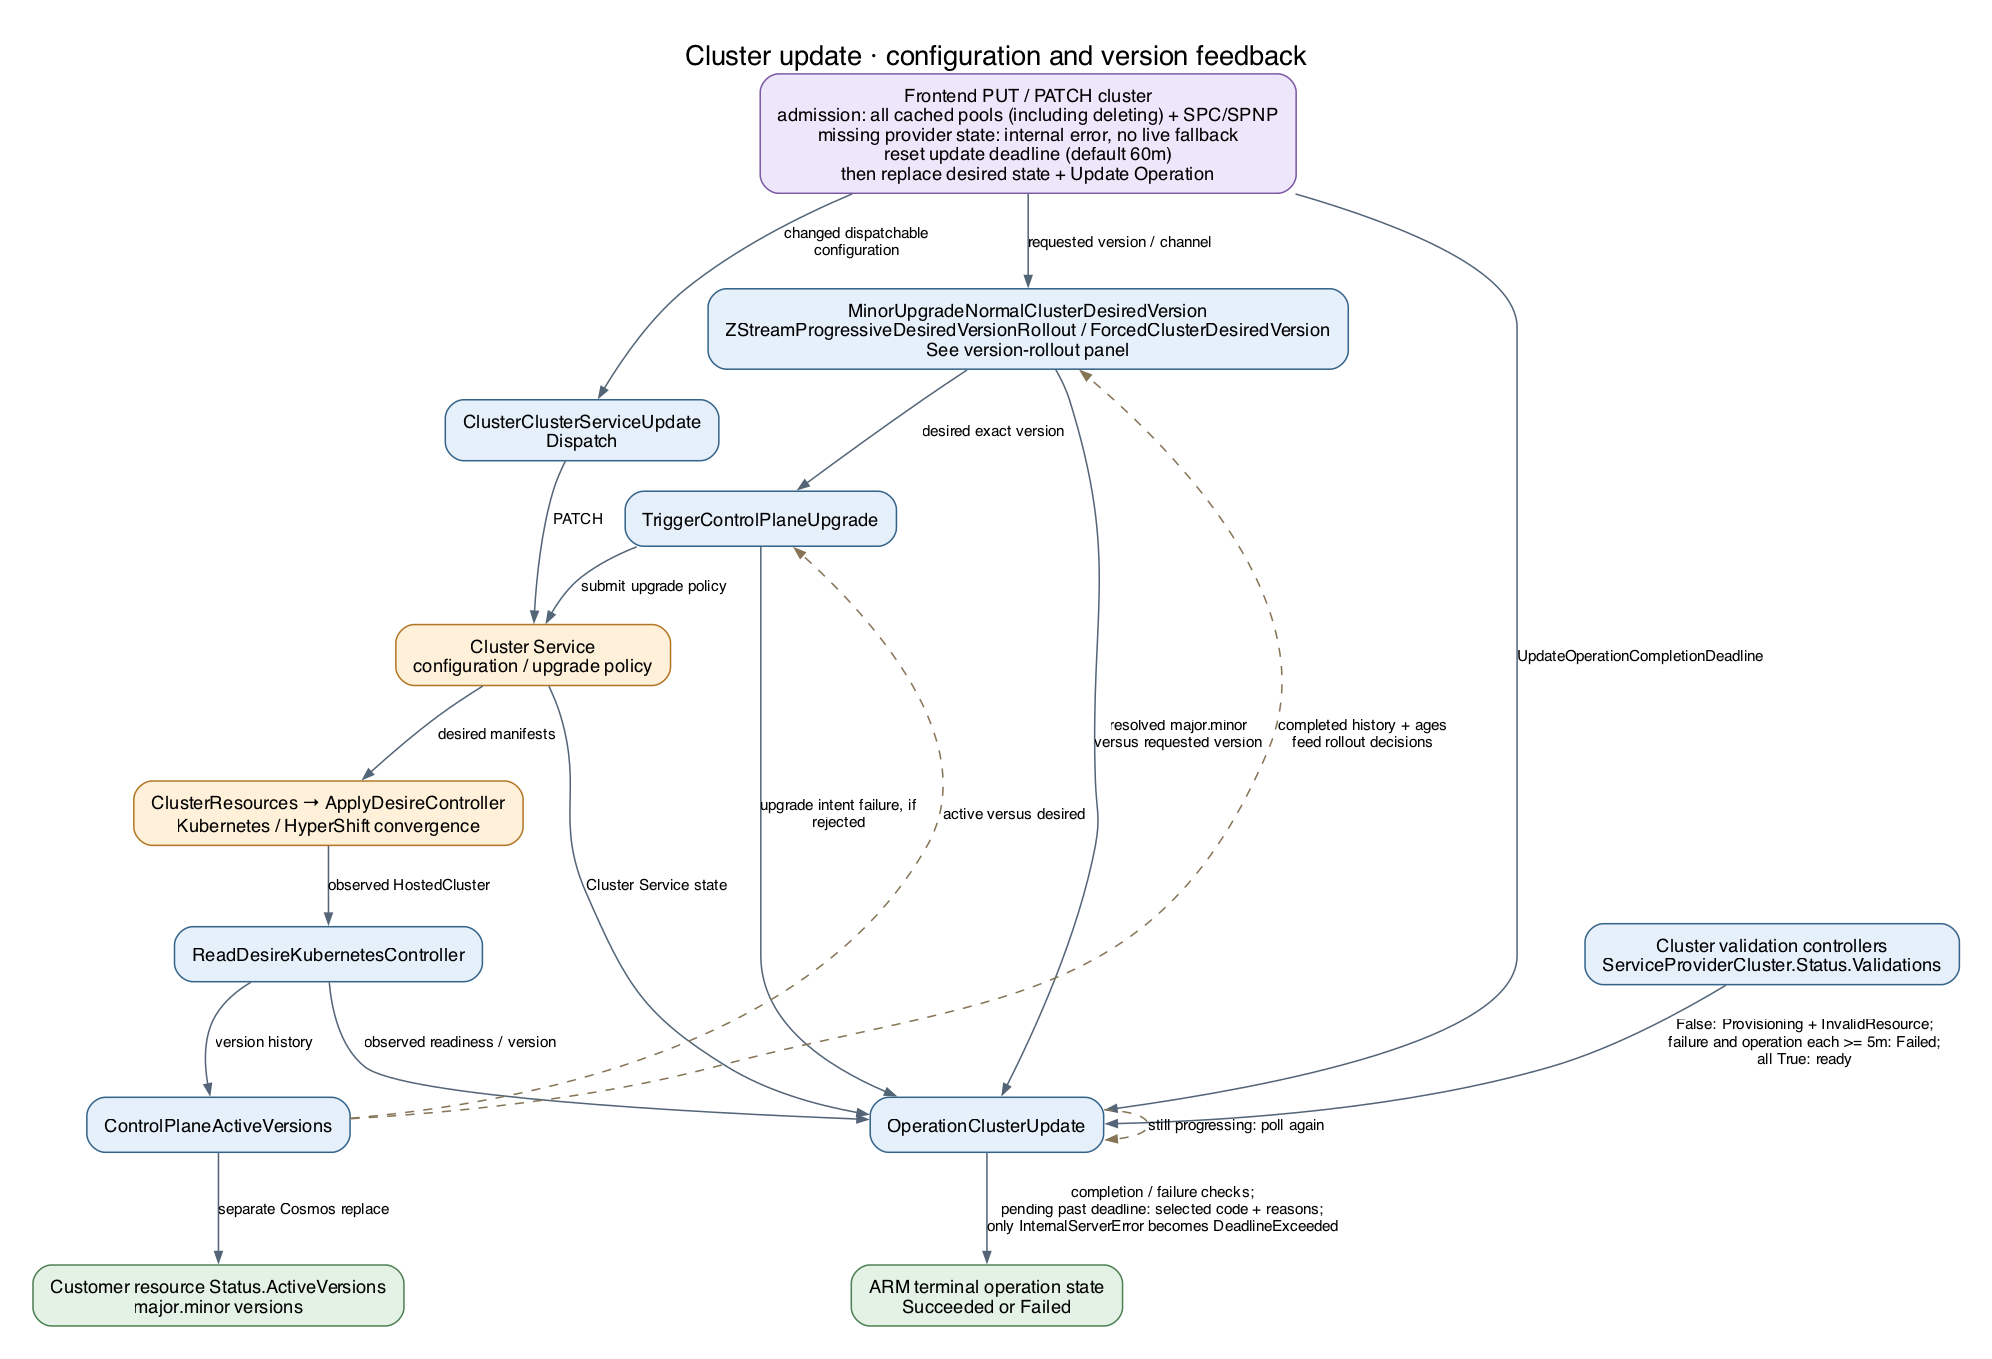
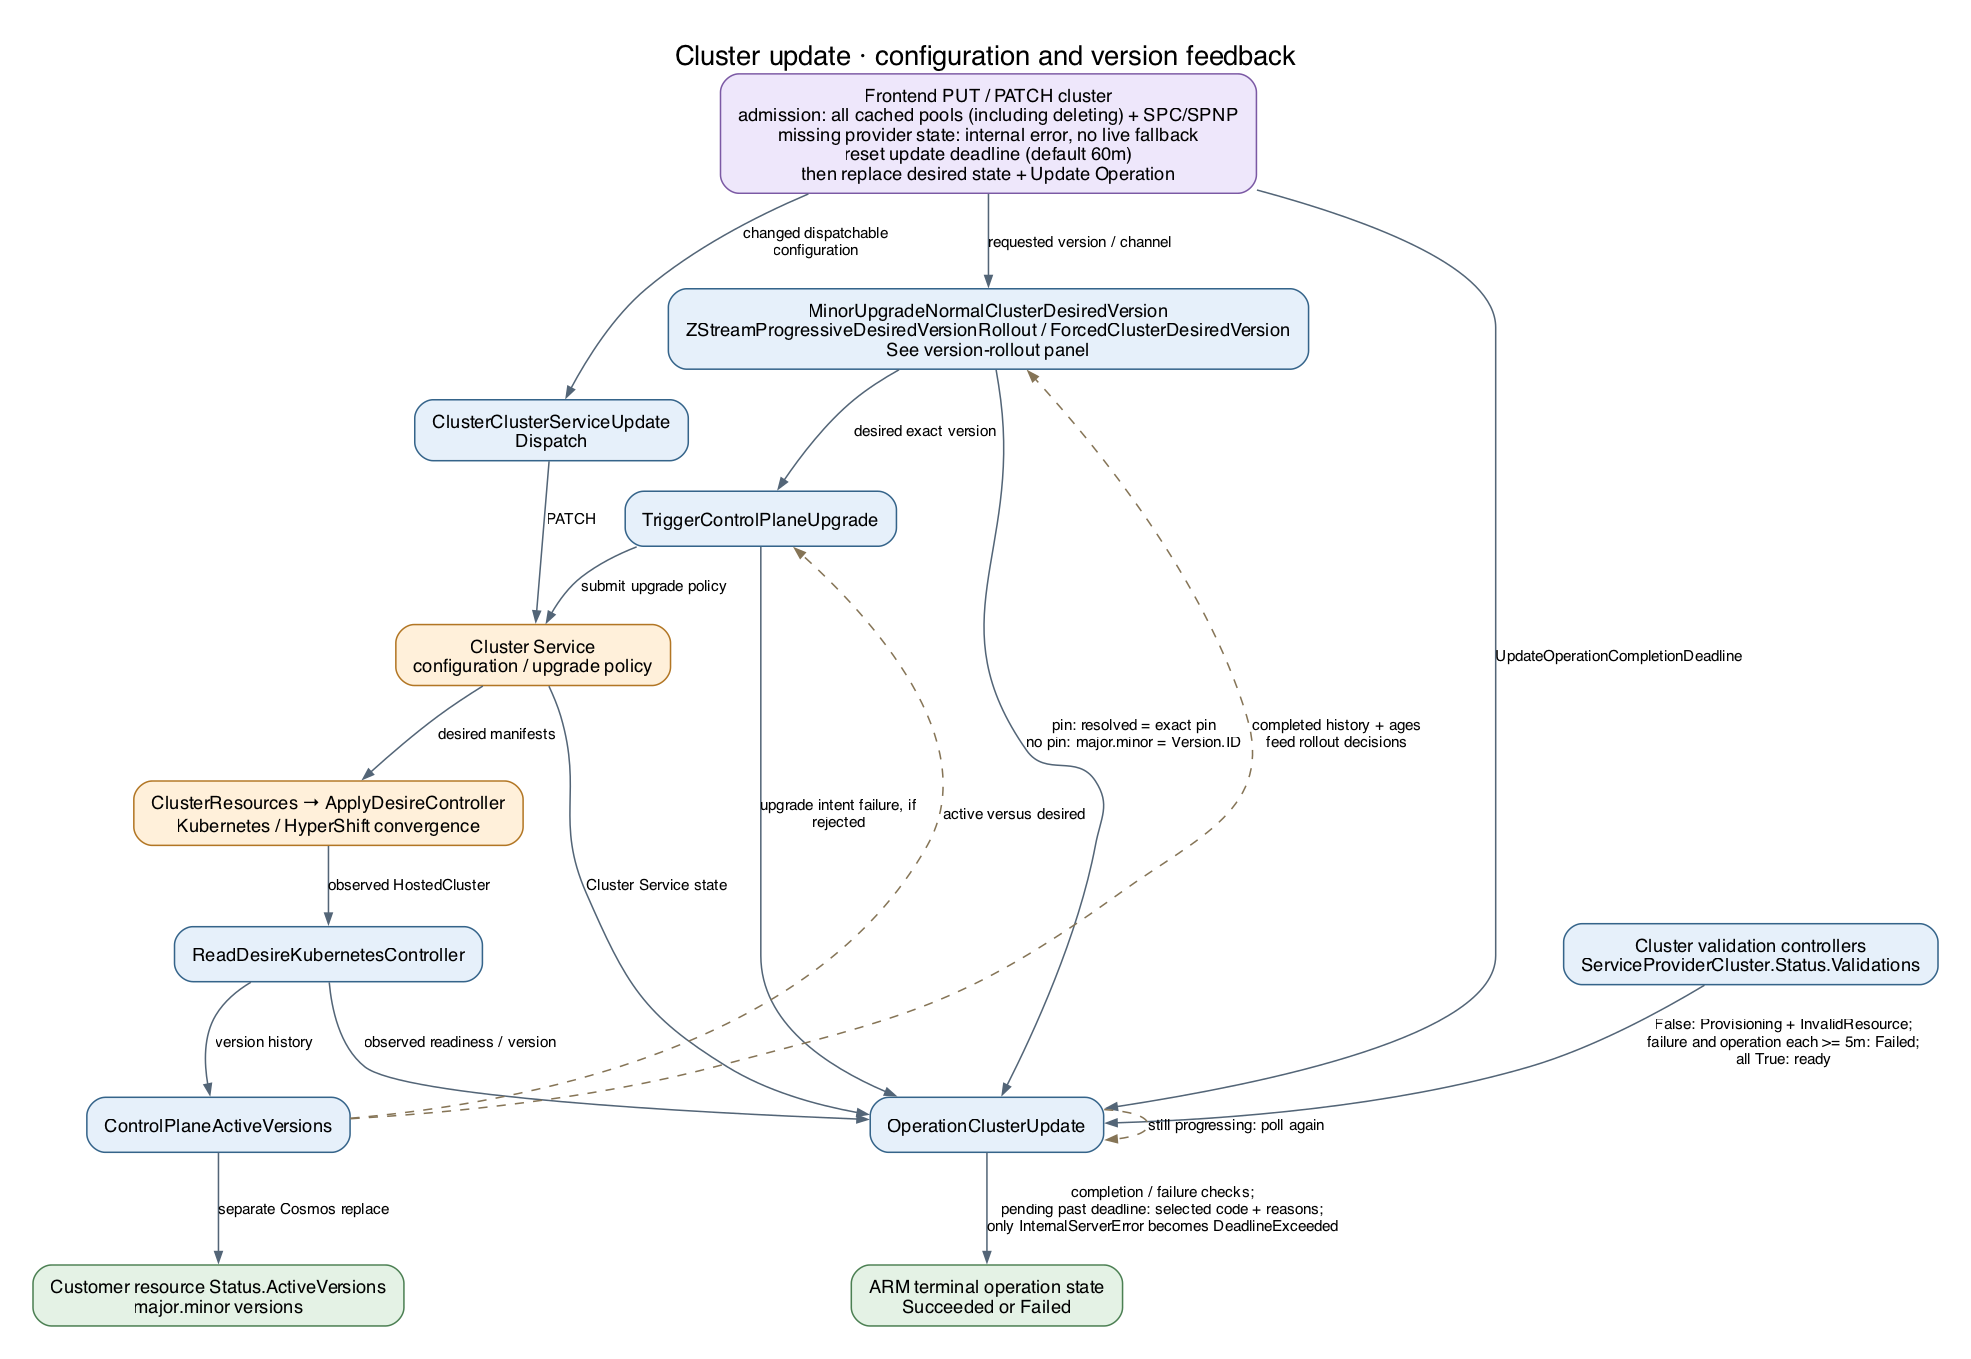
docs(cosmos-data-flow): document the exact-version pin reads
The OperationClusterUpdate entry now records its experimental exact-version override read and pin-equality completion check. The cluster-update flow diagram distinguishes exact matching for forced pins from major/minor matching for unpinned versions; regenerate its PNG to keep the reference consistent with the controller.

diff --git a/docs/cosmos-data-flow.md b/docs/cosmos-data-flow.md
@@ -1540,7 +1540,7 @@ For the matching nonterminal operation, writes status/error/transition time and 
 
 [Source](../backend/pkg/controllers/cluster/operations/operation_cluster_update.go) · **Trigger:** Active operation; 10s.
 
-Checks resolved provider desired major/minor against the customer request, rejects incompatible SRE/exact overrides, and waits up to 129s from first observed mismatch for assignment (tracked in memory per operation). It no longer reads or creates status for the removed desired-version controller. Combines dispatched configuration, Cluster Service state, mirrored HostedCluster completion, and the same cluster validation check and five-minute failure grace period as [OperationClusterCreate](#operationclustercreate). For the matching nonterminal operation, writes operation status/error/transition time and ARM provisioning state, clears the active-operation reference on terminal state, and sends the async notification.
+Checks the resolved provider desired version against the customer request, rejects incompatible SRE/exact overrides, and waits up to 129s from first observed mismatch for assignment (tracked in memory per operation). When a forced version is set (SRE `Spec.PinnedVersion.ExactVersion`, else `ServiceProviderProperties.ExperimentalFeatures.ControlPlaneExactVersion`), the resolved version must equal it exactly, not merely share its release line, because `Version.ID` only ever carries `MAJOR.MINOR`; otherwise `Version.ID`'s major/minor is compared. It no longer reads or creates status for the removed per-cluster `ControlPlaneDesiredVersion` controller. Combines dispatched configuration, Cluster Service state, mirrored HostedCluster completion, and the same cluster validation check and five-minute failure grace period as [OperationClusterCreate](#operationclustercreate). For the matching nonterminal operation, writes operation status/error/transition time and ARM provisioning state, clears the active-operation reference on terminal state, and sends the async notification.
 
 After determining state, a still-pending operation past `ServiceProviderProperties.UpdateOperationCompletionDeadline` becomes Failed with the selected `OperationState.CloudErrorCode` (replacing only `InternalServerError` with `DeadlineExceeded`) and the merged, source-labelled pending reasons, including Cluster Service progress messages. Already successful/failed observations retain their result. A missing deadline (older stored resources) preserves the previous behavior. State-evaluation errors remain reconcile errors, as in creation.
 
@@ -2298,6 +2298,8 @@ The [operation poller](../backend/pkg/controllers/cluster/operations/operation_c
 [Frontend update admission](../frontend/pkg/frontend/cluster.go) combines cached node-pool inventory and SPC/SPNP state with a live target-cluster read. Deleting cached pools remain version-skew validation inputs and require cached SPNP state until they leave the inventory. Missing required provider state produces a contextual internal error, with no GetOrCreate or live parent fallback. These [admission inputs remain best effort](#admission-caches-and-startup), not an atomic snapshot.
 
 [Desired-version assignment](#backend-fleet-control-plane-version-rollout), [upgrade dispatch](../backend/pkg/controllers/cluster/version/trigger_control_plane_upgrade_controller.go) and [operation completion](../backend/pkg/controllers/cluster/operations/operation_cluster_update.go) make separate decisions. The graph highlights version/configuration changes and validation observations. Validation failures lasting at least five minutes also fail the operation with `InvalidResource` once the operation is at least five minutes old; sizing, identities and backup maintenance continue independently.
+
+For the desired-version edge, the operation poller requires `Spec.ControlPlaneVersion.DesiredVersion` to equal an SRE exact pin, or else the experimental exact override, when present. Without either pin it compares only major/minor to the customer `Version.ID`. A pin on a different major/minor fails as incompatible; a compatible pin with a different resolved z-stream remains pending during the assignment wait.
 
 ### Control-plane version rollout
 
